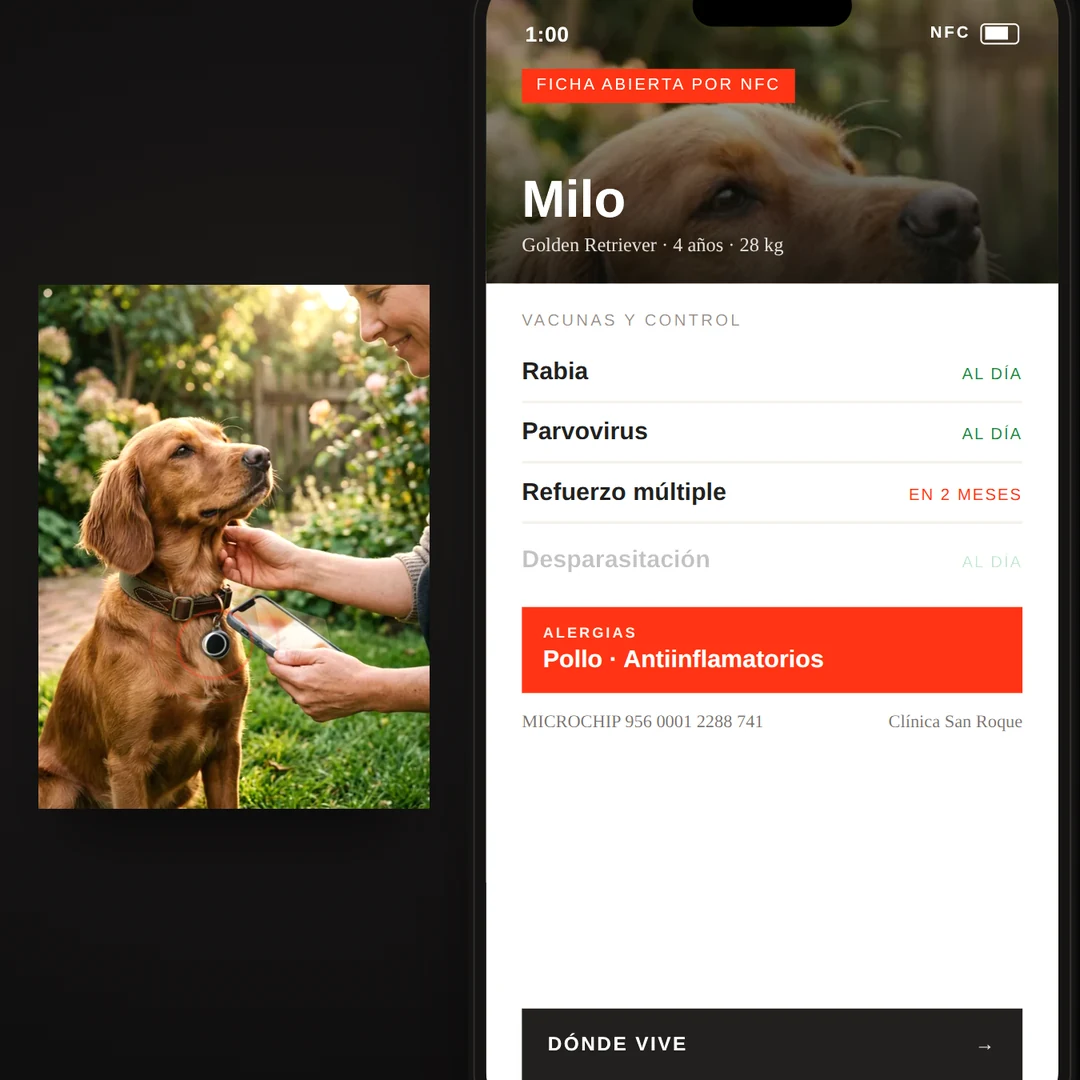
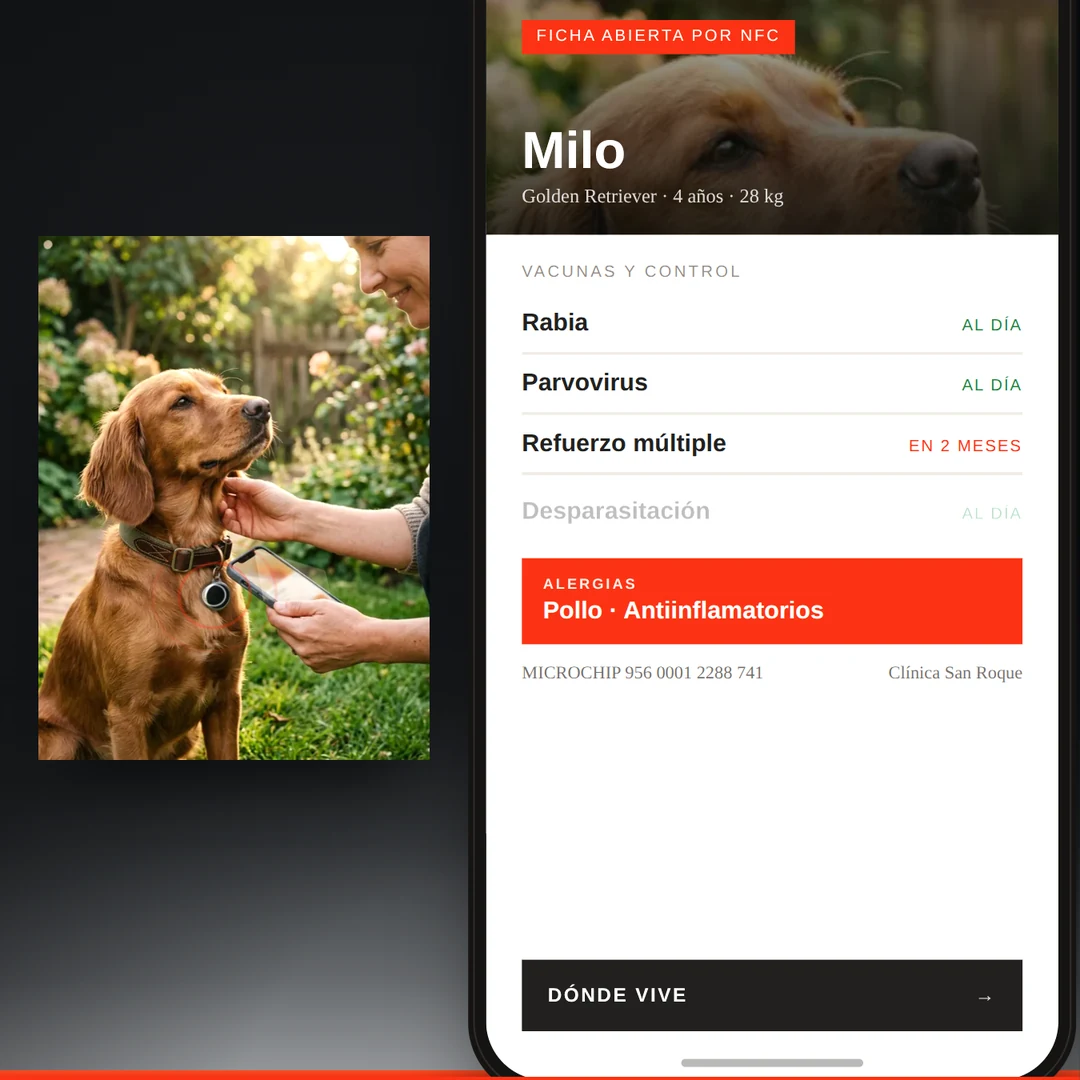
Match the three CSS scenes to the studio set
Tarjeta, llavero and mascotas are built in CSS, so the studio rig added in the
last commit never reached them and they read as a different shoot: tarjeta sat
on a full-bleed white desk, and all three used a warm near-black instead of the
set's neutral one, with none of the red edge line the other nine share.

Give them a shared studio stage: the same neutral dark surround, a light sweep
rising from the floor, and the red line along the front.

A cropped slab in perspective, matching the rendered scenes literally, was tried
first and did not work. These scenes are seen almost head-on and not all of them
rest on anything -- the keychain hangs, mascotas is two flat panels -- so a table
fought the composition and its taper read as folded paper. A cyclorama sweep
carries the same studio without forcing a surface under objects that have none.

The vignette fades in through a mask: a radial centred below the frame is already
saturated at the element's top edge and left a hard horizontal seam across the
empty side of the tarjeta shot.

NfcLab.dc.html is the source, but harness8-10 inline their own copy of the scene
CSS and markup, so the edit has to land in all four files or captures come out of
a stale copy. apply_studio_stage.py applies it to any of them, guarded, skipping
files that do not carry a given scene.

Also bottom-anchor the full-bleed crop in grade.py: the red line lands on the
very last row, and the old centre-biased crop trimmed it off.
[…]

diff --git a/tapwork-site/capture/NfcLab.dc.html b/tapwork-site/capture/NfcLab.dc.html
@@ -27,13 +27,34 @@
   .tw-fade { animation: twFadeIn 420ms cubic-bezier(.2,.7,.2,1); }
   @media (prefers-reduced-motion: reduce) { .tw-pulse { animation: none; opacity: .25; } .tw-fade { animation: none; } }
 
+  /* ---- Escenario de estudio compartido (tarjeta / llavero / mascotas) ----
+     Las otras nueve escenas se renderizan en three.js sobre una tarima clara con
+     una línea roja al frente, contra un fondo casi negro neutro. Estas tres están
+     hechas solo con CSS, así que no pasan por `_studioRig`; esto les da el mismo
+     fondo, la misma tarima y la misma sombra de contacto para que se lean como
+     parte del mismo set y no como otra sesión de fotos. */
+  .tw-studio { background: radial-gradient(120% 90% at 30% 34%, #17191c 0%, #0c0e10 58%, #070709 100%) !important; }
+  /* Un ciclorama, no una tarima: estas escenas se ven casi de frente y no todas
+     apoyan sobre algo (el llavero cuelga, mascotas son dos paneles), así que una
+     mesa recortada pelearía con la composición. Un barrido de luz que sube desde
+     el piso más la línea roja da el mismo estudio sin forzar nada. */
+  .tw-slab { position: absolute; left: 0; right: 0; bottom: 0; height: 48%; z-index: 0; pointer-events: none; }
+  .tw-slab span { position: absolute; inset: 0; display: block; }
+  .tw-slab .tw-slab-top { background: linear-gradient(180deg, rgba(226,232,238,0) 0%, rgba(226,232,238,.05) 30%, rgba(228,234,240,.18) 58%, rgba(233,238,243,.40) 84%, rgba(238,242,246,.52) 100%); }
+  /* El viñeteo lateral tiene que entrar por abajo con una máscara: un radial
+     centrado bajo el cuadro ya está saturado en el borde superior del elemento
+     y dejaría una costura horizontal donde el barrido empieza. */
+  .tw-slab .tw-slab-shade { background: radial-gradient(76% 120% at 50% 106%, rgba(0,0,0,0) 36%, rgba(6,7,9,.52) 76%, rgba(6,7,9,.80) 100%);
+    -webkit-mask-image: linear-gradient(180deg, rgba(0,0,0,0) 0%, #000 46%); mask-image: linear-gradient(180deg, rgba(0,0,0,0) 0%, #000 46%); }
+  .tw-slab .tw-slab-face { background: linear-gradient(180deg, rgba(255,255,255,0) 82%, rgba(255,255,255,.10) 100%); }
+  .tw-slab .tw-slab-edge { top: auto; height: 6px; background: linear-gradient(180deg, #f2461f, #d8280d); }
+
   /* ---- Tarjeta de presentación NFC (ported verbatim from tarjeta-nfc.html's stage; the
      narration column was dropped, only the physical card + phone scene is embedded) ---- */
   #tw-tarjeta-stage, #tw-tarjeta-stage * { box-sizing: border-box; }
   .tj-stagebox { container-type: size; width: 430px; height: 513px; flex: none; }
   .tj-stage { position: relative; width: 600px; height: 716px; perspective: 1500px; overflow: hidden; transform-origin: top left; transform: scale(calc(100cqh / 716px)); }
-  .tj-desk { position: absolute; inset: 0; background: radial-gradient(120% 80% at 30% 30%, #fbfbfb 0%, #ececea 55%, #dedbd8 100%); }
-  .tj-desk::after { content: ""; position: absolute; left: 0; right: 0; bottom: 0; height: 2px; background: #ec3013; }
+  .tj-desk { position: absolute; inset: 0; }
   .tj-cardwrap { position: absolute; left: 6px; bottom: 58px; width: 344px; height: 217px; z-index: 3; transform-style: preserve-3d; transform: rotateX(26deg) rotateZ(-8deg); transition: transform 1.25s cubic-bezier(.4,0,.2,1); }
   #tw-tarjeta-stage[data-state="lectura"] .tj-cardwrap { transform: translate(236px,-306px) rotateX(15deg) rotateZ(-5deg); }
   #tw-tarjeta-stage[data-state="web"] .tj-cardwrap, #tw-tarjeta-stage[data-state="guardar"] .tj-cardwrap { transform: rotateX(30deg) rotateZ(-10deg) translateY(12px); }
@@ -263,7 +284,7 @@
   .ms-stage { position: relative; width: 664px; height: 716px; display: flex; align-items: center; gap: 24px; padding: 0 24px; box-sizing: border-box; overflow: hidden; transform-origin: top left; transform: scale(calc(100cqh / 716px)); background: radial-gradient(120% 90% at 26% 44%, #1c1a19 0%, #0f0e0e 58%, #080808 100%); }
   .ms-stage::after { content: ""; position: absolute; left: 0; right: 0; bottom: 0; height: 2px; background: #ec3013; z-index: 9; }
 
-  .ms-photo { position: relative; flex: none; width: 240px; aspect-ratio: 640/857; overflow: hidden; background: #2f3a22; box-shadow: 0 30px 40px -18px rgba(0,0,0,.6); }
+  .ms-photo { position: relative; z-index: 2; flex: none; width: 240px; aspect-ratio: 640/857; overflow: hidden; background: #2f3a22; box-shadow: 0 30px 40px -18px rgba(0,0,0,.6); }
   .ms-shot { position: absolute; inset: 0; background: url("dog-nfc.webp") center/cover no-repeat; transform: scale(1.02); transform-origin: 38% 62%; transition: transform 2.4s cubic-bezier(.4,0,.2,1); }
   #tw-mascotas-stage[data-state="ficha"] .ms-shot, #tw-mascotas-stage[data-state="mapa"] .ms-shot { transform: scale(1.075); }
   .ms-glow { position: absolute; inset: 0; pointer-events: none; mix-blend-mode: screen; opacity: 0; transition: opacity .5s ease; clip-path: polygon(55.0% 59.7%,73.4% 63.9%,74.7% 68.3%,57.5% 69.6%); background: linear-gradient(115deg,rgba(255,255,255,.62),rgba(255,224,178,.30) 60%,rgba(255,255,255,0)); }
@@ -278,7 +299,7 @@
   .ms-pin span { background: #201e1d; color: #fff; font-family: "Archivo", sans-serif; font-weight: 700; font-size: 11px; letter-spacing: .14em; padding: 5px 9px; white-space: nowrap; }
   .ms-pin b { width: 2px; height: 26px; background: #201e1d; display: block; }
 
-  .ms-device { position: relative; flex: none; width: 352px; height: 716px; background: #141312; border-radius: 46px; padding: 11px; box-shadow: 0 40px 60px -22px rgba(0,0,0,.8); }
+  .ms-device { position: relative; z-index: 2; flex: none; width: 352px; height: 716px; background: #141312; border-radius: 46px; padding: 11px; box-shadow: 0 40px 60px -22px rgba(0,0,0,.8); }
   .ms-device::after { content: ""; position: absolute; inset: 3px; border-radius: 44px; border: 1px solid rgba(255,255,255,.10); pointer-events: none; }
   .ms-screen { position: relative; width: 100%; height: 100%; border-radius: 36px; overflow: hidden; background: #0b0f12; }
   .ms-island { position: absolute; left: 50%; top: 12px; transform: translateX(-50%); width: 98px; height: 26px; background: #000; border-radius: 14px; z-index: 9; }
@@ -420,8 +441,9 @@
         </div>
         <div style="{{ lab.tarjetaStageStyle }}">
           <div class="tj-stagebox">
-            <div class="tj-stage" id="tw-tarjeta-stage" data-state="acerca">
+            <div class="tj-stage tw-studio" id="tw-tarjeta-stage" data-state="acerca">
               <div class="tj-desk"></div>
+              <div class="tw-slab"><span class="tw-slab-top"></span><span class="tw-slab-shade"></span><span class="tw-slab-face"></span><span class="tw-slab-edge"></span></div>
 
               <div class="tj-cardwrap">
                 <div class="tj-biz">
@@ -551,7 +573,8 @@
         </div>
         <div style="{{ lab.llaveroStageStyle }}">
           <div class="lv-stagebox">
-            <div class="lv-stage" id="tw-llavero-stage" data-state="acerca">
+            <div class="lv-stage tw-studio" id="tw-llavero-stage" data-state="acerca">
+              <div class="tw-slab"><span class="tw-slab-top"></span><span class="tw-slab-shade"></span><span class="tw-slab-face"></span><span class="tw-slab-edge"></span></div>
               <div class="lv-chain">
                 <div class="lv-key lv-a"><div class="lv-head"><i></i></div><div class="lv-blade"></div></div>
                 <div class="lv-key lv-b"><div class="lv-head"><i></i></div><div class="lv-blade"></div></div>
@@ -679,7 +702,8 @@
         </div>
         <div style="{{ lab.mascotasStageStyle }}">
           <div class="ms-stagebox">
-            <div class="ms-stage" id="tw-mascotas-stage" data-state="lock">
+            <div class="ms-stage tw-studio" id="tw-mascotas-stage" data-state="lock">
+              <div class="tw-slab"><span class="tw-slab-top"></span><span class="tw-slab-shade"></span><span class="tw-slab-face"></span><span class="tw-slab-edge"></span></div>
               <div class="ms-photo">
                 <div class="ms-shot"></div>
                 <div class="ms-glow"></div>

diff --git a/tapwork-site/capture/harness10.html b/tapwork-site/capture/harness10.html
@@ -14,7 +14,7 @@ html,body{margin:0;background:#0b0f0e;}
   .ms-stage { position: relative; width: 664px; height: 716px; display: flex; align-items: center; gap: 24px; padding: 0 24px; box-sizing: border-box; overflow: hidden; transform-origin: top left; transform: scale(calc(100cqh / 716px)); background: radial-gradient(120% 90% at 26% 44%, #1c1a19 0%, #0f0e0e 58%, #080808 100%); }
   .ms-stage::after { content: ""; position: absolute; left: 0; right: 0; bottom: 0; height: 2px; background: #ec3013; z-index: 9; }
 
-  .ms-photo { position: relative; flex: none; width: 240px; aspect-ratio: 640/857; overflow: hidden; background: #2f3a22; box-shadow: 0 30px 40px -18px rgba(0,0,0,.6); }
+  .ms-photo { position: relative; z-index: 2; flex: none; width: 240px; aspect-ratio: 640/857; overflow: hidden; background: #2f3a22; box-shadow: 0 30px 40px -18px rgba(0,0,0,.6); }
   .ms-shot { position: absolute; inset: 0; background: url("dog-nfc.webp") center/cover no-repeat; transform: scale(1.02); transform-origin: 38% 62%; transition: transform 2.4s cubic-bezier(.4,0,.2,1); }
   #tw-mascotas-stage[data-state="ficha"] .ms-shot, #tw-mascotas-stage[data-state="mapa"] .ms-shot { transform: scale(1.075); }
   .ms-glow { position: absolute; inset: 0; pointer-events: none; mix-blend-mode: screen; opacity: 0; transition: opacity .5s ease; clip-path: polygon(55.0% 59.7%,73.4% 63.9%,74.7% 68.3%,57.5% 69.6%); background: linear-gradient(115deg,rgba(255,255,255,.62),rgba(255,224,178,.30) 60%,rgba(255,255,255,0)); }
@@ -29,7 +29,7 @@ html,body{margin:0;background:#0b0f0e;}
   .ms-pin span { background: #201e1d; color: #fff; font-family: "Archivo", sans-serif; font-weight: 700; font-size: 11px; letter-spacing: .14em; padding: 5px 9px; white-space: nowrap; }
   .ms-pin b { width: 2px; height: 26px; background: #201e1d; display: block; }
 
-  .ms-device { position: relative; flex: none; width: 352px; height: 716px; background: #141312; border-radius: 46px; padding: 11px; box-shadow: 0 40px 60px -22px rgba(0,0,0,.8); }
+  .ms-device { position: relative; z-index: 2; flex: none; width: 352px; height: 716px; background: #141312; border-radius: 46px; padding: 11px; box-shadow: 0 40px 60px -22px rgba(0,0,0,.8); }
   .ms-device::after { content: ""; position: absolute; inset: 3px; border-radius: 44px; border: 1px solid rgba(255,255,255,.10); pointer-events: none; }
   .ms-screen { position: relative; width: 100%; height: 100%; border-radius: 36px; overflow: hidden; background: #0b0f12; }
   .ms-island { position: absolute; left: 50%; top: 12px; transform: translateX(-50%); width: 98px; height: 26px; background: #000; border-radius: 14px; z-index: 9; }
@@ -105,6 +105,28 @@ html,body{margin:0;background:#0b0f0e;}
   .ms-pair .ms-cta { position: static; left: auto; right: auto; bottom: auto; flex: 1; }
 
   @media (prefers-reduced-motion: reduce) { #tw-mascotas-stage .ms-view, #tw-mascotas-stage .ms-shot, #tw-mascotas-stage .ms-glow, #tw-mascotas-stage .ms-row, #tw-mascotas-stage .ms-pin, #tw-mascotas-stage .ms-tagdot, #tw-mascotas-stage .ms-sheet { transition: none; } }
+  /* ---- Escenario de estudio compartido (tarjeta / llavero / mascotas) ----
+     Las otras nueve escenas se renderizan en three.js sobre una tarima clara con
+     una línea roja al frente, contra un fondo casi negro neutro. Estas tres están
+     hechas solo con CSS, así que no pasan por `_studioRig`; esto les da el mismo
+     fondo, la misma tarima y la misma sombra de contacto para que se lean como
+     parte del mismo set y no como otra sesión de fotos. */
+  .tw-studio { background: radial-gradient(120% 90% at 30% 34%, #17191c 0%, #0c0e10 58%, #070709 100%) !important; }
+  /* Un ciclorama, no una tarima: estas escenas se ven casi de frente y no todas
+     apoyan sobre algo (el llavero cuelga, mascotas son dos paneles), así que una
+     mesa recortada pelearía con la composición. Un barrido de luz que sube desde
+     el piso más la línea roja da el mismo estudio sin forzar nada. */
+  .tw-slab { position: absolute; left: 0; right: 0; bottom: 0; height: 48%; z-index: 0; pointer-events: none; }
+  .tw-slab span { position: absolute; inset: 0; display: block; }
+  .tw-slab .tw-slab-top { background: linear-gradient(180deg, rgba(226,232,238,0) 0%, rgba(226,232,238,.05) 30%, rgba(228,234,240,.18) 58%, rgba(233,238,243,.40) 84%, rgba(238,242,246,.52) 100%); }
+  /* El viñeteo lateral tiene que entrar por abajo con una máscara: un radial
+     centrado bajo el cuadro ya está saturado en el borde superior del elemento
+     y dejaría una costura horizontal donde el barrido empieza. */
+  .tw-slab .tw-slab-shade { background: radial-gradient(76% 120% at 50% 106%, rgba(0,0,0,0) 36%, rgba(6,7,9,.52) 76%, rgba(6,7,9,.80) 100%);
+    -webkit-mask-image: linear-gradient(180deg, rgba(0,0,0,0) 0%, #000 46%); mask-image: linear-gradient(180deg, rgba(0,0,0,0) 0%, #000 46%); }
+  .tw-slab .tw-slab-face { background: linear-gradient(180deg, rgba(255,255,255,0) 82%, rgba(255,255,255,.10) 100%); }
+  .tw-slab .tw-slab-edge { top: auto; height: 6px; background: linear-gradient(180deg, #f2461f, #d8280d); }
+
 </style>
 </head>
 <body>
@@ -112,7 +134,8 @@ html,body{margin:0;background:#0b0f0e;}
 <div style="{{ lab.mascotasStageStyle }}">
 
           <div class="ms-stagebox">
-            <div class="ms-stage" id="tw-mascotas-stage" data-state="lock">
+            <div class="ms-stage tw-studio" id="tw-mascotas-stage" data-state="lock">
+              <div class="tw-slab"><span class="tw-slab-top"></span><span class="tw-slab-shade"></span><span class="tw-slab-face"></span><span class="tw-slab-edge"></span></div>
               <div class="ms-photo">
                 <div class="ms-shot"></div>
                 <div class="ms-glow"></div>

diff --git a/tapwork-site/capture/harness8.html b/tapwork-site/capture/harness8.html
@@ -27,8 +27,7 @@ html,body{margin:0;background:#0b0f0e;}
   #tw-tarjeta-stage, #tw-tarjeta-stage * { box-sizing: border-box; }
   .tj-stagebox { container-type: size; width: 430px; height: 513px; flex: none; }
   .tj-stage { position: relative; width: 600px; height: 716px; perspective: 1500px; overflow: hidden; transform-origin: top left; transform: scale(calc(100cqh / 716px)); }
-  .tj-desk { position: absolute; inset: 0; background: radial-gradient(120% 80% at 30% 30%, #fbfbfb 0%, #ececea 55%, #dedbd8 100%); }
-  .tj-desk::after { content: ""; position: absolute; left: 0; right: 0; bottom: 0; height: 2px; background: #ec3013; }
+  .tj-desk { position: absolute; inset: 0; }
   .tj-cardwrap { position: absolute; left: 6px; bottom: 58px; width: 344px; height: 217px; z-index: 3; transform-style: preserve-3d; transform: rotateX(26deg) rotateZ(-8deg); transition: transform 1.25s cubic-bezier(.4,0,.2,1); }
   #tw-tarjeta-stage[data-state="lectura"] .tj-cardwrap { transform: translate(236px,-306px) rotateX(15deg) rotateZ(-5deg); }
   #tw-tarjeta-stage[data-state="web"] .tj-cardwrap, #tw-tarjeta-stage[data-state="guardar"] .tj-cardwrap { transform: rotateX(30deg) rotateZ(-10deg) translateY(12px); }
@@ -122,14 +121,37 @@ html,body{margin:0;background:#0b0f0e;}
   .tj-pair .tj-cta { position: static; flex: 1; }
   @media (prefers-reduced-motion: reduce) { #tw-tarjeta-stage .tj-view, #tw-tarjeta-stage .tj-srv, #tw-tarjeta-stage .tj-sheet, #tw-tarjeta-stage .tj-device, #tw-tarjeta-stage .tj-cardwrap { transition: none; } }
 
+  /* ---- Escenario de estudio compartido (tarjeta / llavero / mascotas) ----
+     Las otras nueve escenas se renderizan en three.js sobre una tarima clara con
+     una línea roja al frente, contra un fondo casi negro neutro. Estas tres están
+     hechas solo con CSS, así que no pasan por `_studioRig`; esto les da el mismo
+     fondo, la misma tarima y la misma sombra de contacto para que se lean como
+     parte del mismo set y no como otra sesión de fotos. */
+  .tw-studio { background: radial-gradient(120% 90% at 30% 34%, #17191c 0%, #0c0e10 58%, #070709 100%) !important; }
+  /* Un ciclorama, no una tarima: estas escenas se ven casi de frente y no todas
+     apoyan sobre algo (el llavero cuelga, mascotas son dos paneles), así que una
+     mesa recortada pelearía con la composición. Un barrido de luz que sube desde
+     el piso más la línea roja da el mismo estudio sin forzar nada. */
+  .tw-slab { position: absolute; left: 0; right: 0; bottom: 0; height: 48%; z-index: 0; pointer-events: none; }
+  .tw-slab span { position: absolute; inset: 0; display: block; }
+  .tw-slab .tw-slab-top { background: linear-gradient(180deg, rgba(226,232,238,0) 0%, rgba(226,232,238,.05) 30%, rgba(228,234,240,.18) 58%, rgba(233,238,243,.40) 84%, rgba(238,242,246,.52) 100%); }
+  /* El viñeteo lateral tiene que entrar por abajo con una máscara: un radial
+     centrado bajo el cuadro ya está saturado en el borde superior del elemento
+     y dejaría una costura horizontal donde el barrido empieza. */
+  .tw-slab .tw-slab-shade { background: radial-gradient(76% 120% at 50% 106%, rgba(0,0,0,0) 36%, rgba(6,7,9,.52) 76%, rgba(6,7,9,.80) 100%);
+    -webkit-mask-image: linear-gradient(180deg, rgba(0,0,0,0) 0%, #000 46%); mask-image: linear-gradient(180deg, rgba(0,0,0,0) 0%, #000 46%); }
+  .tw-slab .tw-slab-face { background: linear-gradient(180deg, rgba(255,255,255,0) 82%, rgba(255,255,255,.10) 100%); }
+  .tw-slab .tw-slab-edge { top: auto; height: 6px; background: linear-gradient(180deg, #f2461f, #d8280d); }
+
 </style>
 </head>
 <body>
 <div id="badge-wrap" style="position:relative;width:600px;height:700px;">
 <div style="{{ lab.tarjetaStageStyle }}">
           <div class="tj-stagebox">
-            <div class="tj-stage" id="tw-tarjeta-stage" data-state="acerca">
+            <div class="tj-stage tw-studio" id="tw-tarjeta-stage" data-state="acerca">
               <div class="tj-desk"></div>
+              <div class="tw-slab"><span class="tw-slab-top"></span><span class="tw-slab-shade"></span><span class="tw-slab-face"></span><span class="tw-slab-edge"></span></div>
 
               <div class="tj-cardwrap">
                 <div class="tj-biz">

diff --git a/tapwork-site/capture/harness9.html b/tapwork-site/capture/harness9.html
@@ -128,6 +128,28 @@ html,body{margin:0;background:#0b0f0e;}
   .lv-reel-tag { position: absolute; left: 16px; top: 54px; z-index: 3; background: #e8531f; color: #fff; font-family: "Archivo", sans-serif; font-size: 9px; letter-spacing: .14em; padding: 5px 9px; }
 
   @media (prefers-reduced-motion: reduce) { #tw-llavero-stage .lv-view, #tw-llavero-stage .lv-device, #tw-llavero-stage .lv-chain, #tw-llavero-stage .lv-ig-grid, #tw-llavero-stage .lv-sheet { transition: none; } }
+  /* ---- Escenario de estudio compartido (tarjeta / llavero / mascotas) ----
+     Las otras nueve escenas se renderizan en three.js sobre una tarima clara con
+     una línea roja al frente, contra un fondo casi negro neutro. Estas tres están
+     hechas solo con CSS, así que no pasan por `_studioRig`; esto les da el mismo
+     fondo, la misma tarima y la misma sombra de contacto para que se lean como
+     parte del mismo set y no como otra sesión de fotos. */
+  .tw-studio { background: radial-gradient(120% 90% at 30% 34%, #17191c 0%, #0c0e10 58%, #070709 100%) !important; }
+  /* Un ciclorama, no una tarima: estas escenas se ven casi de frente y no todas
+     apoyan sobre algo (el llavero cuelga, mascotas son dos paneles), así que una
+     mesa recortada pelearía con la composición. Un barrido de luz que sube desde
+     el piso más la línea roja da el mismo estudio sin forzar nada. */
+  .tw-slab { position: absolute; left: 0; right: 0; bottom: 0; height: 48%; z-index: 0; pointer-events: none; }
+  .tw-slab span { position: absolute; inset: 0; display: block; }
+  .tw-slab .tw-slab-top { background: linear-gradient(180deg, rgba(226,232,238,0) 0%, rgba(226,232,238,.05) 30%, rgba(228,234,240,.18) 58%, rgba(233,238,243,.40) 84%, rgba(238,242,246,.52) 100%); }
+  /* El viñeteo lateral tiene que entrar por abajo con una máscara: un radial
+     centrado bajo el cuadro ya está saturado en el borde superior del elemento
+     y dejaría una costura horizontal donde el barrido empieza. */
+  .tw-slab .tw-slab-shade { background: radial-gradient(76% 120% at 50% 106%, rgba(0,0,0,0) 36%, rgba(6,7,9,.52) 76%, rgba(6,7,9,.80) 100%);
+    -webkit-mask-image: linear-gradient(180deg, rgba(0,0,0,0) 0%, #000 46%); mask-image: linear-gradient(180deg, rgba(0,0,0,0) 0%, #000 46%); }
+  .tw-slab .tw-slab-face { background: linear-gradient(180deg, rgba(255,255,255,0) 82%, rgba(255,255,255,.10) 100%); }
+  .tw-slab .tw-slab-edge { top: auto; height: 6px; background: linear-gradient(180deg, #f2461f, #d8280d); }
+
 </style>
 </head>
 <body>
@@ -135,7 +157,8 @@ html,body{margin:0;background:#0b0f0e;}
 <div style="{{ lab.llaveroStageStyle }}">
 
           <div class="lv-stagebox">
-            <div class="lv-stage" id="tw-llavero-stage" data-state="acerca">
+            <div class="lv-stage tw-studio" id="tw-llavero-stage" data-state="acerca">
+              <div class="tw-slab"><span class="tw-slab-top"></span><span class="tw-slab-shade"></span><span class="tw-slab-face"></span><span class="tw-slab-edge"></span></div>
               <div class="lv-chain">
                 <div class="lv-key lv-a"><div class="lv-head"><i></i></div><div class="lv-blade"></div></div>
                 <div class="lv-key lv-b"><div class="lv-head"><i></i></div><div class="lv-blade"></div></div>

diff --git a/tapwork-site/capture/apply_studio_stage.py b/tapwork-site/capture/apply_studio_stage.py
@@ -1,0 +1,78 @@
+"""Apply the shared studio stage to the three CSS-only scenes.
+
+NfcLab.dc.html is the source of truth, but e2e/harness8-10.html inline their own
+copy of the scene CSS and markup, so the same edit has to land in each of them or
+the captures come out of a stale copy. Every substitution is guarded, and files
+that do not carry a given scene are simply skipped.
+"""
+import io, os, sys
+
+STUDIO_CSS = '''  /* ---- Escenario de estudio compartido (tarjeta / llavero / mascotas) ----
+     Las otras nueve escenas se renderizan en three.js sobre una tarima clara con
+     una línea roja al frente, contra un fondo casi negro neutro. Estas tres están
+     hechas solo con CSS, así que no pasan por `_studioRig`; esto les da el mismo
+     fondo, la misma tarima y la misma sombra de contacto para que se lean como
+     parte del mismo set y no como otra sesión de fotos. */
+  .tw-studio { background: radial-gradient(120% 90% at 30% 34%, #17191c 0%, #0c0e10 58%, #070709 100%) !important; }
+  /* Un ciclorama, no una tarima: estas escenas se ven casi de frente y no todas
+     apoyan sobre algo (el llavero cuelga, mascotas son dos paneles), así que una
+     mesa recortada pelearía con la composición. Un barrido de luz que sube desde
+     el piso más la línea roja da el mismo estudio sin forzar nada. */
+  .tw-slab { position: absolute; left: 0; right: 0; bottom: 0; height: 48%; z-index: 0; pointer-events: none; }
+  .tw-slab span { position: absolute; inset: 0; display: block; }
+  .tw-slab .tw-slab-top { background: linear-gradient(180deg, rgba(226,232,238,0) 0%, rgba(226,232,238,.05) 30%, rgba(228,234,240,.18) 58%, rgba(233,238,243,.40) 84%, rgba(238,242,246,.52) 100%); }
+  /* El viñeteo lateral tiene que entrar por abajo con una máscara: un radial
+     centrado bajo el cuadro ya está saturado en el borde superior del elemento
+     y dejaría una costura horizontal donde el barrido empieza. */
+  .tw-slab .tw-slab-shade { background: radial-gradient(76% 120% at 50% 106%, rgba(0,0,0,0) 36%, rgba(6,7,9,.52) 76%, rgba(6,7,9,.80) 100%);
+    -webkit-mask-image: linear-gradient(180deg, rgba(0,0,0,0) 0%, #000 46%); mask-image: linear-gradient(180deg, rgba(0,0,0,0) 0%, #000 46%); }
+  .tw-slab .tw-slab-face { background: linear-gradient(180deg, rgba(255,255,255,0) 82%, rgba(255,255,255,.10) 100%); }
+  .tw-slab .tw-slab-edge { top: auto; height: 6px; background: linear-gradient(180deg, #f2461f, #d8280d); }
+
+'''
+
+SLAB = ('<div class="tw-slab"><span class="tw-slab-top"></span>'
+        '<span class="tw-slab-shade"></span><span class="tw-slab-face"></span>'
+        '<span class="tw-slab-edge"></span></div>')
+
+OLD_DESK = ('  .tj-desk { position: absolute; inset: 0; background: radial-gradient(120% 80% at 30% 30%, '
+            '#fbfbfb 0%, #ececea 55%, #dedbd8 100%); }\n'
+            '  .tj-desk::after { content: ""; position: absolute; left: 0; right: 0; bottom: 0; '
+            'height: 2px; background: #ec3013; }\n')
+
+EDITS = [
+    (OLD_DESK, '  .tj-desk { position: absolute; inset: 0; }\n'),
+    ('<div class="tj-stage" id="tw-tarjeta-stage" data-state="acerca">',
+     '<div class="tj-stage tw-studio" id="tw-tarjeta-stage" data-state="acerca">'),
+    ('<div class="tj-desk"></div>\n', '<div class="tj-desk"></div>\n              ' + SLAB + '\n'),
+    ('<div class="lv-stage" id="tw-llavero-stage" data-state="acerca">\n',
+     '<div class="lv-stage tw-studio" id="tw-llavero-stage" data-state="acerca">\n              ' + SLAB + '\n'),
+    ('<div class="ms-stage" id="tw-mascotas-stage" data-state="lock">\n',
+     '<div class="ms-stage tw-studio" id="tw-mascotas-stage" data-state="lock">\n              ' + SLAB + '\n'),
+    ('.ms-photo { position: relative; flex: none;', '.ms-photo { position: relative; z-index: 2; flex: none;'),
+    ('.ms-device { position: relative; flex: none;', '.ms-device { position: relative; z-index: 2; flex: none;'),
+]
+
+
+def patch(path):
+    s = io.open(path, encoding='utf-8').read()
+    n0 = len(s)
+    if '.tw-slab {' not in s:
+        assert s.count('</style>') >= 1, path
+        s = s.replace('</style>', STUDIO_CSS + '</style>', 1)
+    done = []
+    for old, new in EDITS:
+        c = s.count(old)
+        if c == 0:
+            continue
+        assert c == 1, '%s: %d matches for %r' % (path, c, old[:50])
+        s = s.replace(old, new, 1)
+        done.append(old.strip()[:34])
+    tmp = path + '.tmp'
+    io.open(tmp, 'w', encoding='utf-8').write(s)
+    os.replace(tmp, path)
+    print('%-16s %d -> %d  (%d edits)' % (os.path.basename(path), n0, len(s), len(done)))
+
+
+for f in sys.argv[1:]:
+    patch(f)

diff --git a/tapwork-site/grade.py b/tapwork-site/grade.py
@@ -116,7 +116,9 @@ def grade(key, im, target, bg):
         # Already a finished composition — just square it off around its centre.
         s = min(im.width, im.height)
         x0 = (im.width - s) // 2
-        y0 = round((im.height - s) * 0.42)          # bias up: these compose low
+        # Bottom-anchored: the studio sweep puts the red edge line on the very last
+        # row, and that line is the motif tying these to the rendered scenes.
+        y0 = im.height - s
         frame = im.crop((x0, y0, x0 + s, y0 + s)).convert('RGB').resize(
             (SIZE, SIZE), Image.LANCZOS)
     else:

diff --git a/tapwork-site/README.md b/tapwork-site/README.md
@@ -51,8 +51,26 @@ posición de la luz, el frustum de la sombra y el `normalBias` al tamaño real d
 lo que hay dentro; después se congela para que la sombra no tiemble cuando
 arranca la animación.
 
+## Escenario de las tres escenas CSS
+
+Tarjeta, llavero y mascotas están hechas solo con CSS, así que no pasan por
+`_studioRig`. Para que combinen con las otras nueve comparten un escenario de
+estudio: el mismo fondo casi negro neutro, un barrido de luz que sube desde el
+piso (un ciclorama, no una tarima recortada) y la línea roja al frente, que es
+el acento que se repite en todo el set.
+
+Se probó primero con una tarima en perspectiva como la de las escenas
+renderizadas y no funcionó: estas se ven casi de frente y no todas apoyan sobre
+algo — el llavero cuelga y mascotas son dos paneles planos — así que la mesa
+peleaba con la composición.
+
+Ese escenario vive en `capture/apply_studio_stage.py`. `NfcLab.dc.html` es la
+fuente, pero `capture/harness8-10.html` traen su propia copia del CSS y del
+markup de la escena, así que el mismo cambio tiene que entrar en los cuatro
+archivos o las capturas salen de una copia vieja. El script hace justo eso:
+
+    python3 capture/apply_studio_stage.py capture/NfcLab.dc.html capture/harness8.html ...
+
 ## Pendiente
 
 - Faltan los enlaces de Instagram / TikTok / Facebook (hoy dicen "pendiente").
-- Las tres escenas hechas con CSS (tarjeta, llavero, mascotas) no pasan por
-  `_studioRig`; traen su propia iluminación y su propio fondo.
